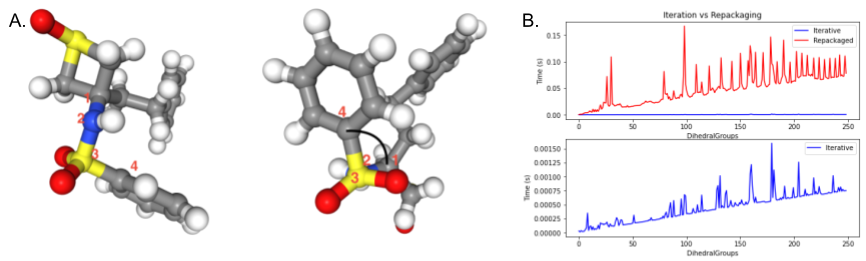
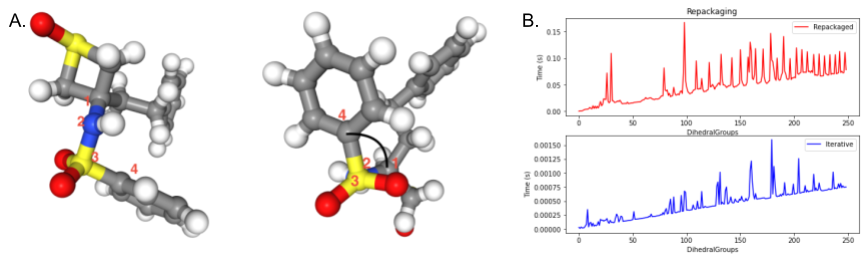
Add figure paragraph in solv

diff --git a/REU_report.tex b/REU_report.tex
@@ -63,7 +63,7 @@ BAR overcomes the challenge of calculating partition functions by substituting t
 
 Thermodynamic integration (TI) obtains changes in free energy by defining a parameter $\lambda$ such that at $\lambda = 0 \; U = U_0$ and at $\lambda = 1 \; U = U_1$, where $U_1$ is the final state and $U_0$ is the initial state, and taking the partial derivative of $A$ with respect to $\lambda$ and integrating from 0 to 1 \cite{chipot_free_2007}.
 
-Both BAR and TI use $\lambda$ as a parameter for the extent of solute-solvent interactions \cite{chipot_free_2007}. This requires running a MD simulation for  each interaction at their respective $\lambda$ values \cite{lemkul_proteins_2019}. The process of initializing that number of simulations requires either the creation of a shell script running each or a tedious process of navigating directories, copying files, and running simulations. MDPOW makes this process easier with the user simply defining their settings and supplying a coordinate file, then running a few Python scripts.
+Both BAR and TI use $\lambda$ as a parameter for the extent of solute-solvent interactions \cite{chipot_free_2007}. This requires running a MD simulation for  each interaction at their respective $\lambda$ values \cite{lemkul_proteins_2019}. The process of initializing that number of simulations requires either the creation of a shell script running each or a tedious process of manually navigating directories, copying files, and running simulations. MDPOW makes this process easier with the user simply defining their settings and supplying a coordinate file, then running a few Python scripts.
 
 MDPOW is not without its limitations. Before release 0.7.0 it was incompatible with anything newer than Python 2.7 and had few features for analysis beyond running BAR and TI calculations. Both of these features were added over the course of the SPIDAL REU.
 
@@ -144,13 +144,13 @@ Using the \texttt{EnsembleAnalsis} framework two new methods were developed as p
 
 One of the analyses developed with the \texttt{EnsembleAnalysis} framework, \texttt{SolvationAnalysis}, which returns the number of solvents within the given distances, can also serve as an example of how to develop an analysis more generally. 
 
-\texttt{SolvationAnalysis} quantifies the number of solvent atom within a given distance of the solute. It accomplishes this thought calculating the distances between and each molecule using the \lstinline{capped_distance} function from MDAnalysis to get the indices for pairs which fall within the given cutoff \cite{michaud-agrawal_mdanalysis_2011, gowers_mdanalysis_2016}. 
+\texttt{SolvationAnalysis} quantifies the number of solvent atom within a given distance of the solute. It accomplishes this through calculating the distances between and each molecule using the \lstinline{capped_distance} function from MDAnalysis to get the indices for pairs which fall within the given cutoff \cite{michaud-agrawal_mdanalysis_2011, gowers_mdanalysis_2016}. 
 
-Building \texttt{EnsembleAnalysis} using inheritance, a consept from object oriented programming, simplifies the process of programming an analysis. Inheriting from a superclass gives a subclass the same methods and attributes, meaning that some methods common to all \texttt{EnsembleAnalysis} objects like \lstinline{run} can be retained; other methods the user can override to run their own analysis code. To develop \texttt{SolvationAnalysis}, only three methods were overridden in the subclass.  
+Building \texttt{EnsembleAnalysis} using inheritance, a concept from object oriented programming, simplifies the process of programming an analysis. Inheriting from a superclass gives a subclass the same methods and attributes, meaning that some methods common to all \texttt{EnsembleAnalysis} objects like \lstinline{run} can be retained; other methods the user can override to run their own analysis code. To develop \texttt{SolvationAnalysis}, only three methods were overridden in the subclass.  
  
 \begin{lstlisting}[language=Python]
 class SolvationAnalysis(EnsembleAnalysis):
-       def __init__(self, solute: EnsembleAtomGroup , solvent: EnsembleAtomGroup , distances: List[float]):
+       def __init__(self, solute: EnsembleAtomGroup, solvent: EnsembleAtomGroup, distances: List[float]):
         self.check_groups_from_common_ensemble([solute, solvent])
         super(SolvationAnalysis, self).__init__(solute.ensemble)
         self._solute = solute
@@ -192,13 +192,15 @@ The next method \lstinline{_prepare_ensemble} establishes data structures needed
 	\label{fig:solute}
 \end{wrapfigure}
 
-With data structures lined up, the actual number of solvent molecules can be counted with \lstinline{_single_frame}. This is done using the the capped distances function in MDAnalysis on line 18. This computes a distance array for the given group positions and returns distances in that range \cite{michaud-agrawal_mdanalysis_2011, gowers_mdanalysis_2016}. 
+With data structures lined up, the actual number of solvent molecules can be counted with \lstinline{_single_frame}. This is done using the fast capped distances function in MDAnalysis on line 18. This computes a distance array for the given group positions and returns distances in that range \cite{michaud-agrawal_mdanalysis_2011, gowers_mdanalysis_2016}.
 
 Finally the \lstinline{_res_dict} data is inputted into the results DataFrame. This gives data that is neatly organized and easy to generate figures from. The data obtained from \texttt{SolvationShell} gives an idea of how solvent molecules are distributed around the solute. This data can also be compared between different $\lambda$ values in a alchemical free energy simulation, offering incite into the role of different intermolecular interactions in the solvation process.
 
+This analysis was developed to determine arrangment of solvents around the solute. Figure two shows a rendering of the solute surounded by water molecules. \texttt{SolvationAnalysis} quantifies this counting the solvents within the given cuttoffs. The relationship between distance and number of solvent molecules for the solvent in figure 2 is shown in figure 3. The collected data sorted with Coulomb on the left and VDW on the right shows that the solvent molecules arrangment around the solvent is to some extent dependent on their interactions.
+
 \begin{figure}[h]
     \centering
-	\includegraphics{solv_plot}
+	\includegraphics[scale=0.5]{solv_plot}
 	\caption{Example solvation shell plot}
 	\label{fig:solvation}
 \end{figure}
@@ -210,15 +212,9 @@ Additionally \texttt{DihedralAnalysis} was developed using the \texttt{EnsembleA
 
 \begin{figure}[h]
     \centering
-	\includegraphics[scale=0.5]{dihedral}
+	\includegraphics[scale=0.5]{Dihedral}
 	\caption{Example dihedral}
 	\label{fig:dihedral}
-\end{figure}
-
-\begin{figure}[h]
-    \centering
-    \includegraphics[scale=0.5]{time}
-    \caption{Execution time of Iterating compared to Repackaging}
 \end{figure}
 
 Dihedral angles are calculated from the positions of four atoms, and describe the geometry of two portions of a molecule between a chemical bond. This gives a better understanding of the spatial relationship between groups in a molecule.   
